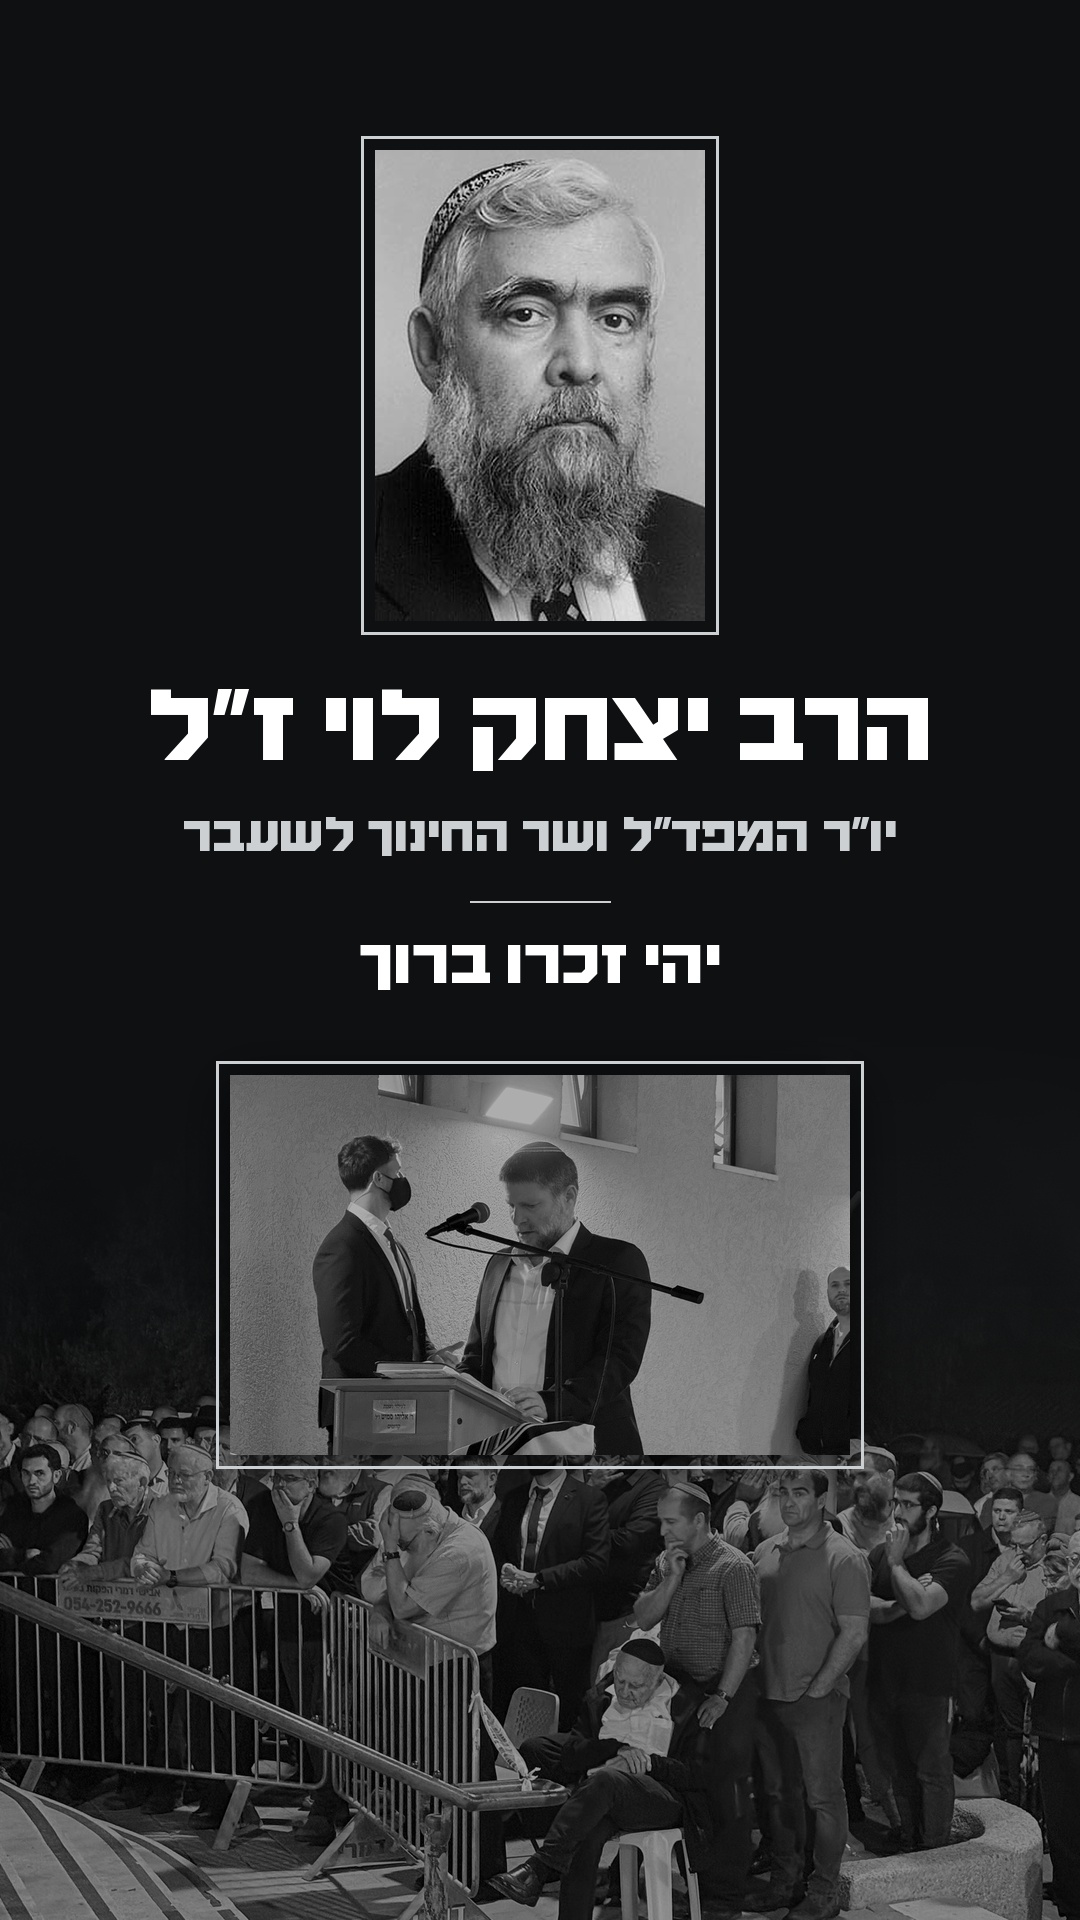
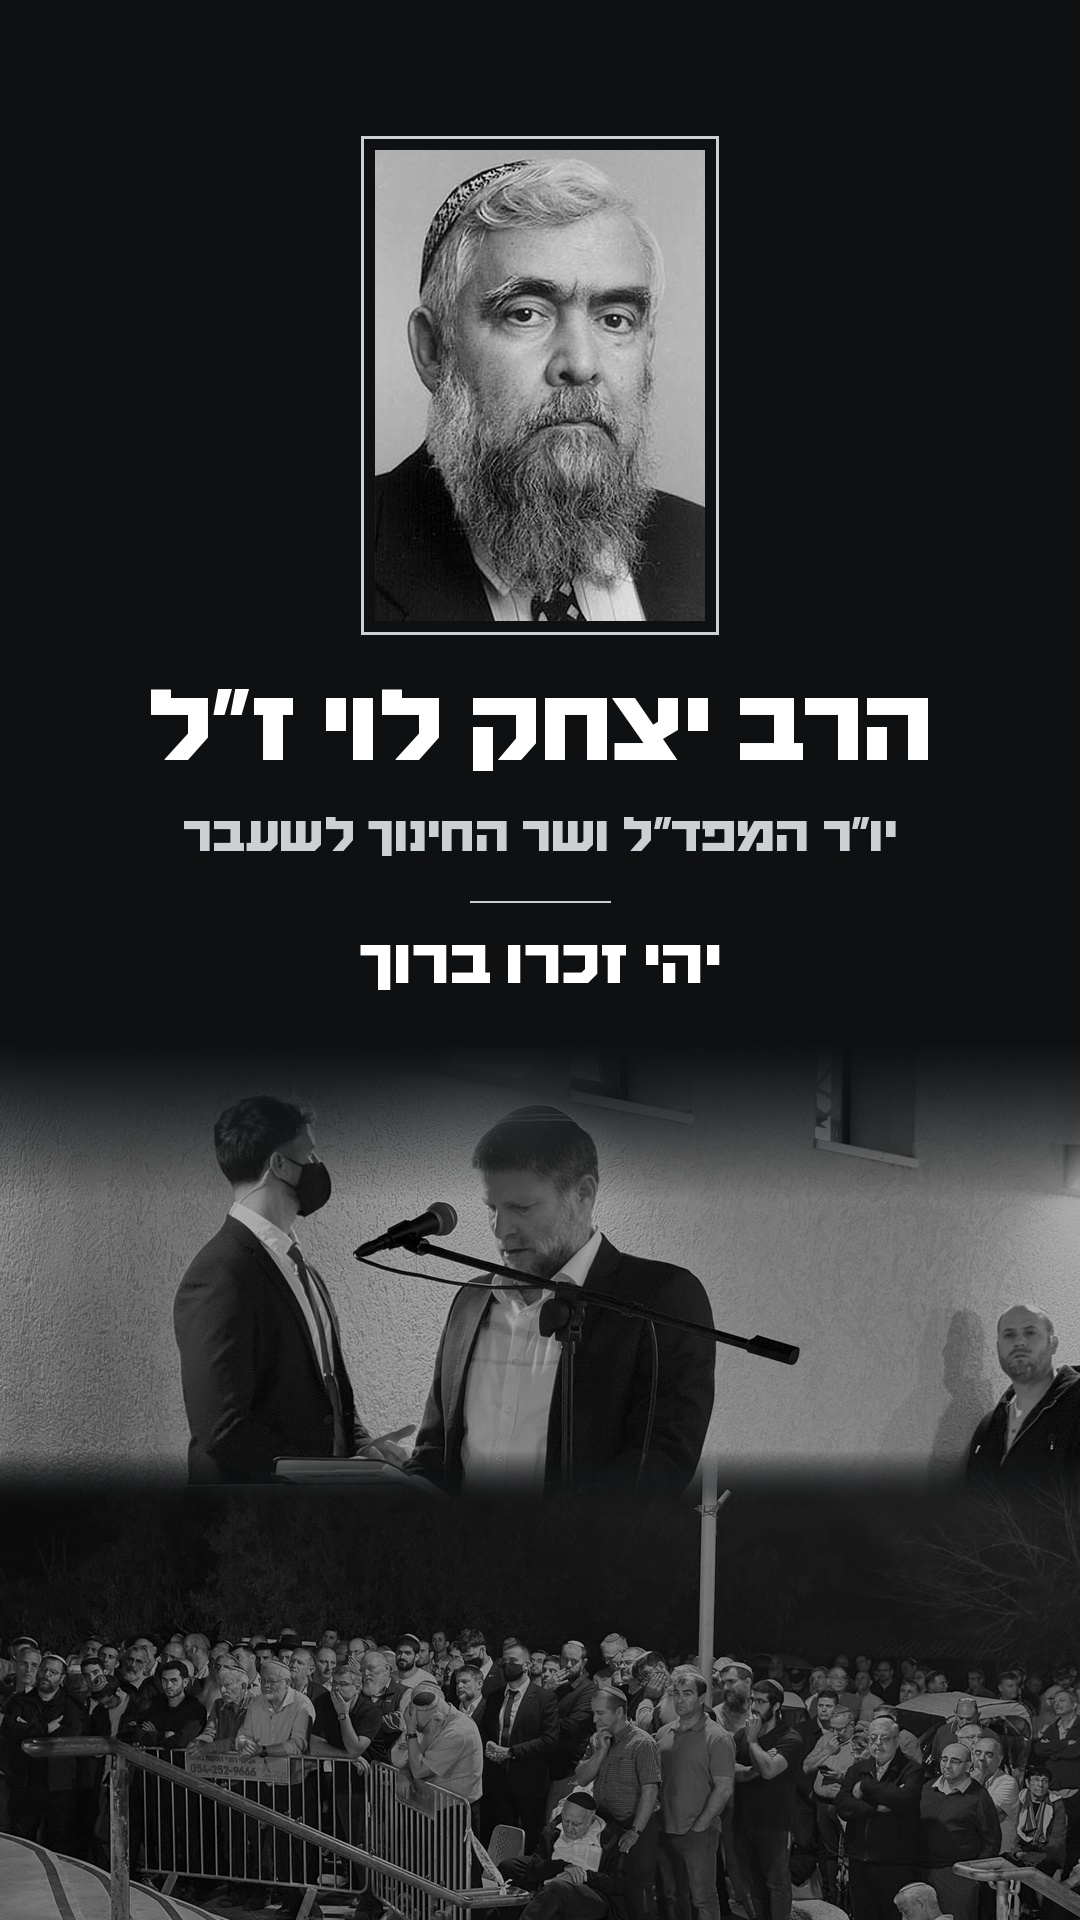
Levy story: eulogy and crowd photos equal size, no overlap
Claude-Session: https://claude.ai/code/session_01RS3QK6pAd3YhyAuXZSJjH1

Changed region(s): [[0.0, 0.5312, 1.0, 1.0]]

diff --git a/content-kit/hatzionut-hadatit/2026-11-story-rav-yitzhak-levy/make.py b/content-kit/hatzionut-hadatit/2026-11-story-rav-yitzhak-levy/make.py
@@ -7,18 +7,20 @@ W, H = 1080, 1920; INK = (14, 16, 18); SOFT = (205, 208, 210)
 def F(s): return ImageFont.truetype(HAIM, s, layout_engine=ImageFont.Layout.RAQM)
 def bw(im, c=1.08, b=1.0): return ImageEnhance.Brightness(ImageEnhance.Contrast(ImageOps.grayscale(im).convert('RGB')).enhance(c)).enhance(b)
 im = Image.new('RGB', (W, H), INK)
-# bottom: the crowd full-bleed in B&W fading up into black; Smotrich at the lectern framed like the portrait, sitting on the seam
-cr = bw(Image.open(HERE + '/crowd.jpg').convert('RGB'), 1.05, .62)
-CH = 900; cr = ImageOps.fit(cr, (W, CH), Image.LANCZOS, centering=(.42, .62))
-m = Image.new('L', (1, CH))
-for y in range(CH): m.putpixel((0, y), int(255 * min(1, y / 420) ** 1.5))
-im.paste(cr, (0, H - CH), m.resize((W, CH)))
-eu = bw(Image.open(HERE + '/eulogy.jpg').convert('RGB'), 1.05, .68)
-EW, EH = 620, 380; eu = ImageOps.fit(eu, (EW, EH), Image.LANCZOS, centering=(.47, .33))
-ex, ey = (W - EW) // 2, 1075
-sh = Image.new('L', (EW + 120, EH + 120), 0); ImageDraw.Draw(sh).rectangle((60, 70, 60 + EW, 70 + EH), fill=200); sh = sh.filter(ImageFilter.GaussianBlur(25))
-im.paste(Image.new('RGB', sh.size, (0, 0, 0)), (ex - 60, ey - 60), sh)
-im.paste(eu, (ex, ey))
+# bottom: Smotrich at the lectern and the crowd, same full width and height, stacked with soft feathered seams (nothing covered)
+BH = 470; Y1 = H - 2 * BH + 60
+eu = ImageOps.fit(bw(Image.open(HERE + '/eulogy.jpg').convert('RGB'), 1.05, .68), (W, BH), Image.LANCZOS, centering=(.5, .3))
+cr = ImageOps.fit(bw(Image.open(HERE + '/crowd.jpg').convert('RGB'), 1.05, .62), (W, BH), Image.LANCZOS, centering=(.45, .55))
+def vmask(h, top, bot):
+    m = Image.new('L', (1, h))
+    for y in range(h):
+        v = 1.0
+        if top: v = min(v, y / top)
+        if bot: v = min(v, (h - 1 - y) / bot)
+        m.putpixel((0, y), int(255 * max(0, v) ** 1.3))
+    return m.resize((W, h))
+im.paste(eu, (0, Y1), vmask(BH, 160, 60))
+im.paste(cr, (0, Y1 + BH - 60), vmask(BH, 60, 0))
 # portrait, framed
 pr = Image.open(HERE + '/rav-levy.jpg').convert('RGB')
 pr = pr.resize((pr.width * 2, pr.height * 2), Image.LANCZOS).filter(ImageFilter.UnsharpMask(2, 50, 2))
@@ -34,5 +36,4 @@ ctr('הרב יצחק לוי ז״ל', F(104), y, (255, 255, 255))
 ctr('יו״ר המפד״ל ושר החינוך לשעבר', F(50), y + 135, SOFT)
 d.line((W / 2 - 70, y + 225, W / 2 + 70, y + 225), fill=SOFT, width=2)
 ctr('יהי זכרו ברוך', F(64), y + 255, (255, 255, 255))
-ImageDraw.Draw(im).rectangle((ex - 14, ey - 14, ex + EW + 13, ey + EH + 13), outline=SOFT, width=3)
 im.save(HERE + '/story.jpg', quality=95); print(y + 330)
